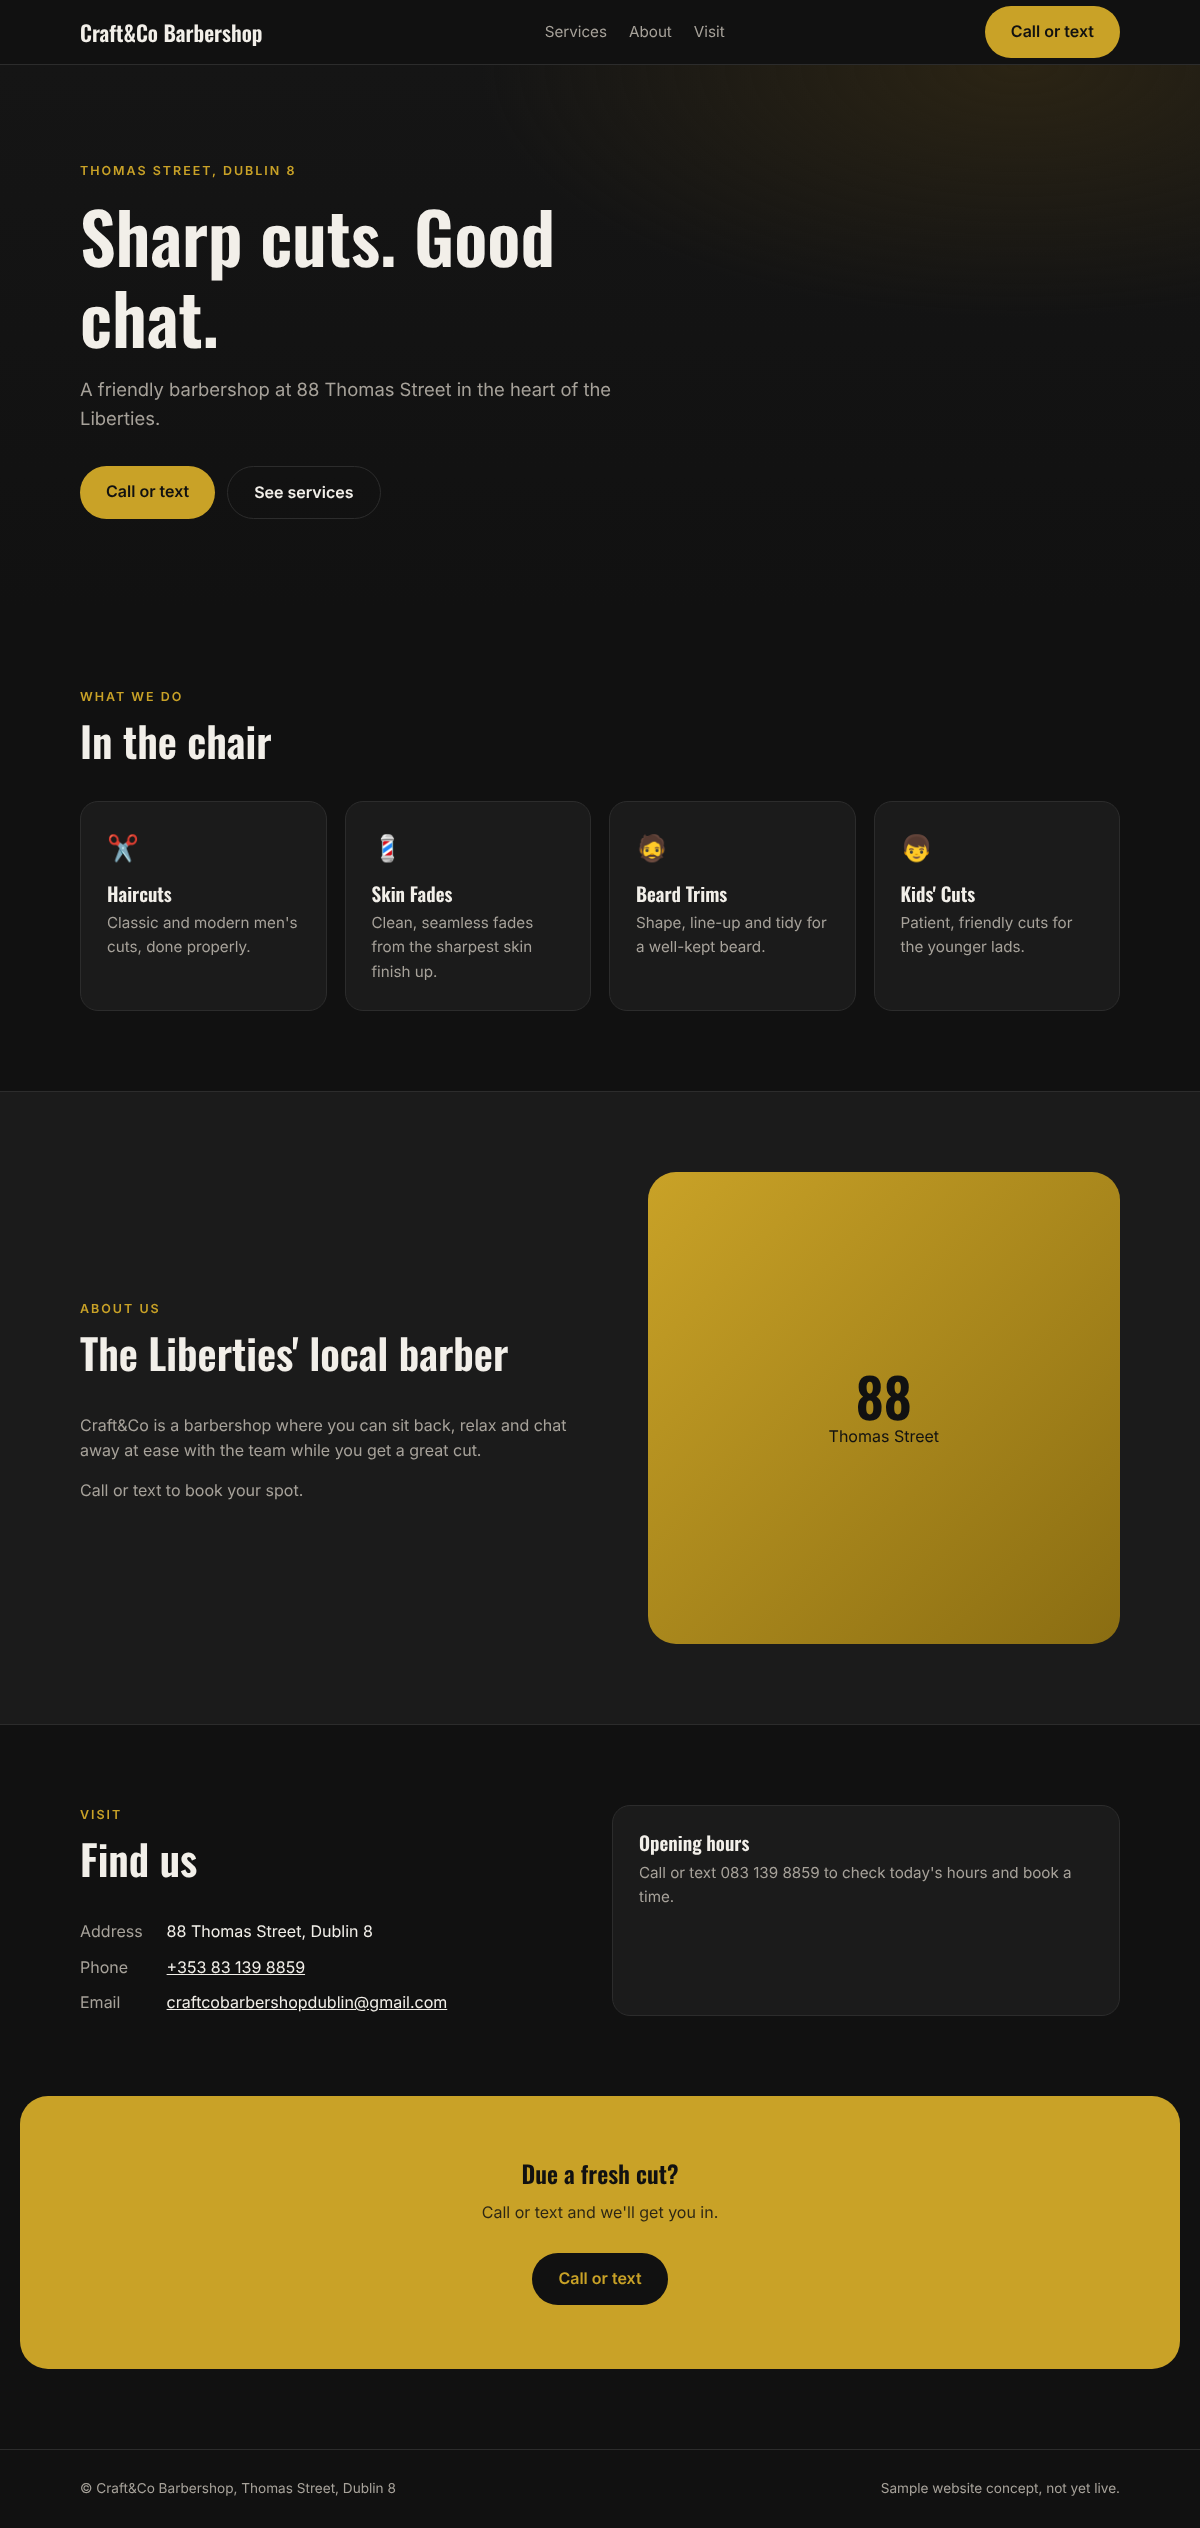
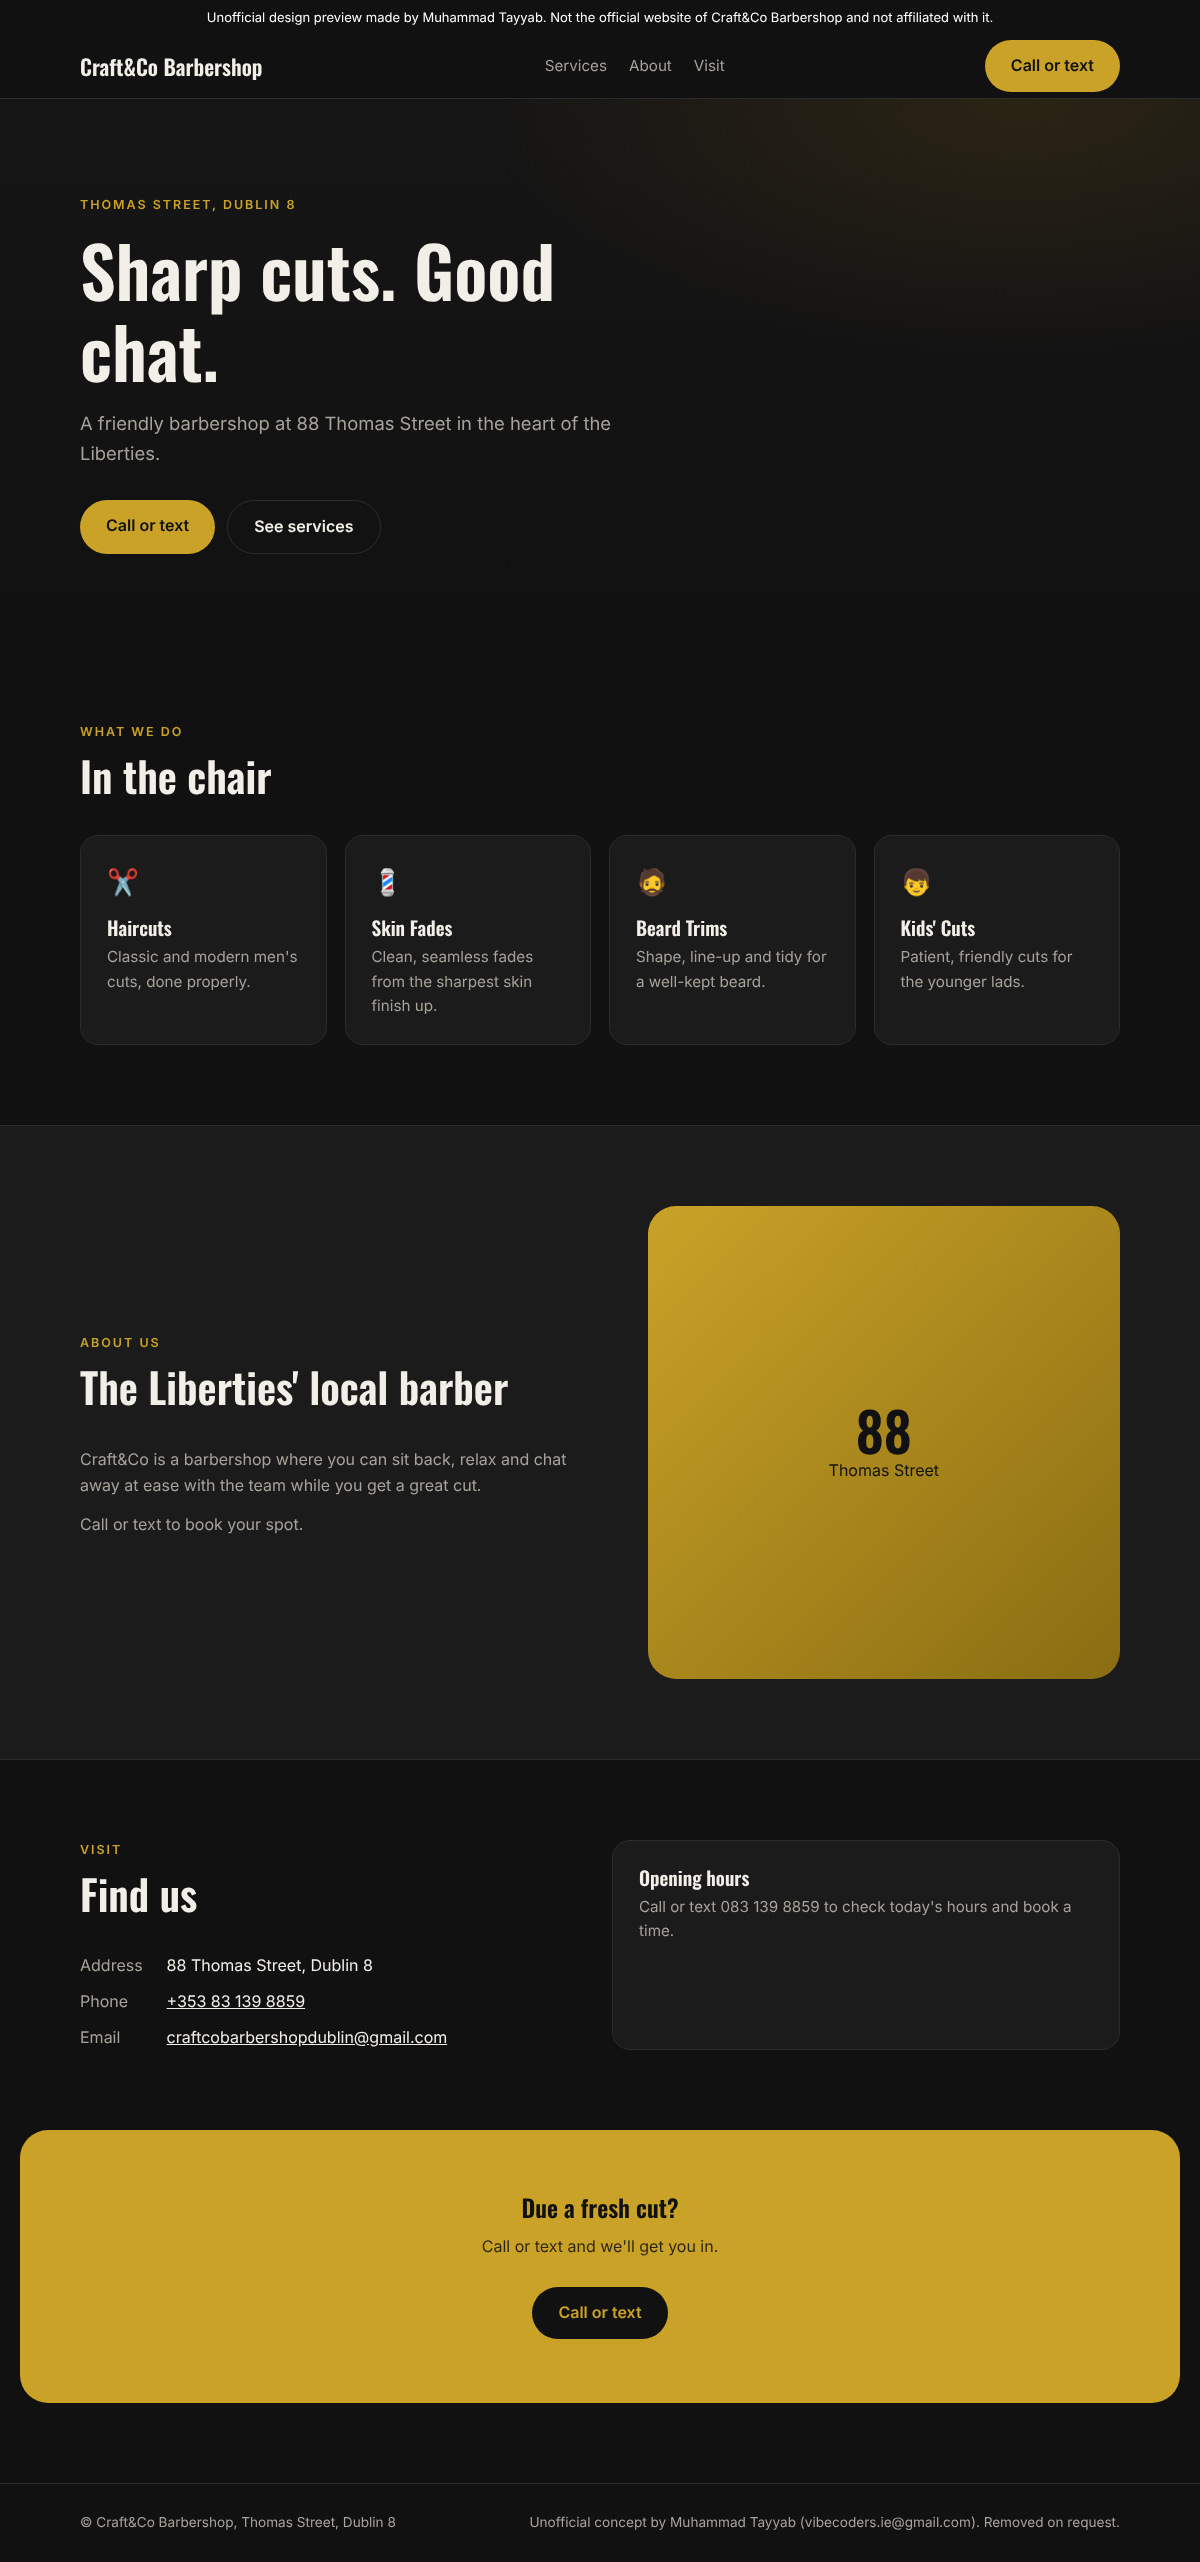
Mark sample sites as unofficial and add outreach compliance rules
Every preview now carries a not-affiliated banner and noindex, and the
playbook pauses cold email until it follows Irish ePrivacy rules.

Claude-Session: https://claude.ai/code/session_019FiM2hzafN36p3aDGyRWvc

diff --git a/sample-sites/nail-garden/index.html b/sample-sites/nail-garden/index.html
@@ -3,6 +3,7 @@
 <head>
 <meta charset="utf-8">
 <meta name="viewport" content="width=device-width, initial-scale=1">
+<meta name="robots" content="noindex, nofollow">
 <title>Nail Garden Beauty Salon | Phibsborough, Dublin 7</title>
 <meta name="description" content="Gel, polish, lash extensions, waxing and facials at Phibsborough Shopping Centre.">
 <link rel="preconnect" href="https://fonts.googleapis.com">
@@ -64,6 +65,7 @@ footer .wrap { display: flex; justify-content: space-between; gap: 16px; flex-wr
 </style>
 </head>
 <body>
+<div style="background:#111;color:#fff;font:13px/1.4 Inter,system-ui,sans-serif;text-align:center;padding:8px 16px">Unofficial design preview made by Muhammad Tayyab. Not the official website of Nail Garden Beauty Salon and not affiliated with it.</div>
 <header>
   <div class="wrap">
     <a class="brand" href="#">Nail Garden Beauty Salon</a>
@@ -130,7 +132,7 @@ footer .wrap { display: flex; justify-content: space-between; gap: 16px; flex-wr
 <footer>
   <div class="wrap">
     <span>&copy; Nail Garden Beauty Salon, Phibsborough, Dublin 7</span>
-    <span>Sample website concept, not yet live.</span>
+    <span>Unofficial concept by Muhammad Tayyab (vibecoders.ie@gmail.com). Removed on request.</span>
   </div>
 </footer>
 </body>

diff --git a/sample-sites/galaxy-nails/index.html b/sample-sites/galaxy-nails/index.html
@@ -3,6 +3,7 @@
 <head>
 <meta charset="utf-8">
 <meta name="viewport" content="width=device-width, initial-scale=1">
+<meta name="robots" content="noindex, nofollow">
 <title>Galaxy Nails &amp; Beauty | Rialto, Dublin 8</title>
 <meta name="description" content="Gel, acrylics, Russian manicures and spa pedicures on the South Circular Road, Rialto.">
 <link rel="preconnect" href="https://fonts.googleapis.com">
@@ -64,6 +65,7 @@ footer .wrap { display: flex; justify-content: space-between; gap: 16px; flex-wr
 </style>
 </head>
 <body>
+<div style="background:#111;color:#fff;font:13px/1.4 Inter,system-ui,sans-serif;text-align:center;padding:8px 16px">Unofficial design preview made by Muhammad Tayyab. Not the official website of Galaxy Nails &amp; Beauty and not affiliated with it.</div>
 <header>
   <div class="wrap">
     <a class="brand" href="#">Galaxy Nails &amp; Beauty</a>
@@ -130,7 +132,7 @@ footer .wrap { display: flex; justify-content: space-between; gap: 16px; flex-wr
 <footer>
   <div class="wrap">
     <span>&copy; Galaxy Nails &amp; Beauty, Rialto, Dublin 8</span>
-    <span>Sample website concept, not yet live.</span>
+    <span>Unofficial concept by Muhammad Tayyab (vibecoders.ie@gmail.com). Removed on request.</span>
   </div>
 </footer>
 </body>

diff --git a/sample-sites/craft-co-barbershop/index.html b/sample-sites/craft-co-barbershop/index.html
@@ -3,6 +3,7 @@
 <head>
 <meta charset="utf-8">
 <meta name="viewport" content="width=device-width, initial-scale=1">
+<meta name="robots" content="noindex, nofollow">
 <title>Craft&amp;Co Barbershop | Thomas Street, Dublin 8</title>
 <meta name="description" content="A friendly barbershop at 88 Thomas Street in the heart of the Liberties.">
 <link rel="preconnect" href="https://fonts.googleapis.com">
@@ -64,6 +65,7 @@ footer .wrap { display: flex; justify-content: space-between; gap: 16px; flex-wr
 </style>
 </head>
 <body>
+<div style="background:#111;color:#fff;font:13px/1.4 Inter,system-ui,sans-serif;text-align:center;padding:8px 16px">Unofficial design preview made by Muhammad Tayyab. Not the official website of Craft&amp;Co Barbershop and not affiliated with it.</div>
 <header>
   <div class="wrap">
     <a class="brand" href="#">Craft&amp;Co Barbershop</a>
@@ -130,7 +132,7 @@ footer .wrap { display: flex; justify-content: space-between; gap: 16px; flex-wr
 <footer>
   <div class="wrap">
     <span>&copy; Craft&amp;Co Barbershop, Thomas Street, Dublin 8</span>
-    <span>Sample website concept, not yet live.</span>
+    <span>Unofficial concept by Muhammad Tayyab (vibecoders.ie@gmail.com). Removed on request.</span>
   </div>
 </footer>
 </body>

diff --git a/sample-sites/navan-barber/index.html b/sample-sites/navan-barber/index.html
@@ -3,6 +3,7 @@
 <head>
 <meta charset="utf-8">
 <meta name="viewport" content="width=device-width, initial-scale=1">
+<meta name="robots" content="noindex, nofollow">
 <title>Navan Barbers | Phibsborough, Dublin 7</title>
 <meta name="description" content="A friendly barbershop at 346 North Circular Road, Phibsborough, taking care of all your grooming needs.">
 <link rel="preconnect" href="https://fonts.googleapis.com">
@@ -64,6 +65,7 @@ footer .wrap { display: flex; justify-content: space-between; gap: 16px; flex-wr
 </style>
 </head>
 <body>
+<div style="background:#111;color:#fff;font:13px/1.4 Inter,system-ui,sans-serif;text-align:center;padding:8px 16px">Unofficial design preview made by Muhammad Tayyab. Not the official website of Navan Barbers and not affiliated with it.</div>
 <header>
   <div class="wrap">
     <a class="brand" href="#">Navan Barbers</a>
@@ -130,7 +132,7 @@ footer .wrap { display: flex; justify-content: space-between; gap: 16px; flex-wr
 <footer>
   <div class="wrap">
     <span>&copy; Navan Barbers, Phibsborough, Dublin 7</span>
-    <span>Sample website concept, not yet live.</span>
+    <span>Unofficial concept by Muhammad Tayyab (vibecoders.ie@gmail.com). Removed on request.</span>
   </div>
 </footer>
 </body>

diff --git a/sample-sites/d15-barbers-drumcondra/index.html b/sample-sites/d15-barbers-drumcondra/index.html
@@ -3,6 +3,7 @@
 <head>
 <meta charset="utf-8">
 <meta name="viewport" content="width=device-width, initial-scale=1">
+<meta name="robots" content="noindex, nofollow">
 <title>D15 Barbers Drumcondra | Drumcondra, Dublin 9</title>
 <meta name="description" content="Men&#x27;s haircuts, fades and beard work at 30 Lower Drumcondra Road.">
 <link rel="preconnect" href="https://fonts.googleapis.com">
@@ -64,6 +65,7 @@ footer .wrap { display: flex; justify-content: space-between; gap: 16px; flex-wr
 </style>
 </head>
 <body>
+<div style="background:#111;color:#fff;font:13px/1.4 Inter,system-ui,sans-serif;text-align:center;padding:8px 16px">Unofficial design preview made by Muhammad Tayyab. Not the official website of D15 Barbers Drumcondra and not affiliated with it.</div>
 <header>
   <div class="wrap">
     <a class="brand" href="#">D15 Barbers Drumcondra</a>
@@ -130,7 +132,7 @@ footer .wrap { display: flex; justify-content: space-between; gap: 16px; flex-wr
 <footer>
   <div class="wrap">
     <span>&copy; D15 Barbers Drumcondra, Drumcondra, Dublin 9</span>
-    <span>Sample website concept, not yet live.</span>
+    <span>Unofficial concept by Muhammad Tayyab (vibecoders.ie@gmail.com). Removed on request.</span>
   </div>
 </footer>
 </body>

diff --git a/sample-sites/new-look-barber/index.html b/sample-sites/new-look-barber/index.html
@@ -3,6 +3,7 @@
 <head>
 <meta charset="utf-8">
 <meta name="viewport" content="width=device-width, initial-scale=1">
+<meta name="robots" content="noindex, nofollow">
 <title>New Look Barber Shop | Cork Street, Dublin 8</title>
 <meta name="description" content="Men&#x27;s haircuts, fades and beard trims at 79 Cork Street, Dublin 8.">
 <link rel="preconnect" href="https://fonts.googleapis.com">
@@ -64,6 +65,7 @@ footer .wrap { display: flex; justify-content: space-between; gap: 16px; flex-wr
 </style>
 </head>
 <body>
+<div style="background:#111;color:#fff;font:13px/1.4 Inter,system-ui,sans-serif;text-align:center;padding:8px 16px">Unofficial design preview made by Muhammad Tayyab. Not the official website of New Look Barber Shop and not affiliated with it.</div>
 <header>
   <div class="wrap">
     <a class="brand" href="#">New Look Barber Shop</a>
@@ -130,7 +132,7 @@ footer .wrap { display: flex; justify-content: space-between; gap: 16px; flex-wr
 <footer>
   <div class="wrap">
     <span>&copy; New Look Barber Shop, Cork Street, Dublin 8</span>
-    <span>Sample website concept, not yet live.</span>
+    <span>Unofficial concept by Muhammad Tayyab (vibecoders.ie@gmail.com). Removed on request.</span>
   </div>
 </footer>
 </body>

diff --git a/sample-sites/sapa-spa/index.html b/sample-sites/sapa-spa/index.html
@@ -3,6 +3,7 @@
 <head>
 <meta charset="utf-8">
 <meta name="viewport" content="width=device-width, initial-scale=1">
+<meta name="robots" content="noindex, nofollow">
 <title>Sapa Spa &amp; Beauty | Rialto, Dublin 8</title>
 <meta name="description" content="Nails, head spa, brows and lashes at 453 South Circular Road.">
 <link rel="preconnect" href="https://fonts.googleapis.com">
@@ -64,6 +65,7 @@ footer .wrap { display: flex; justify-content: space-between; gap: 16px; flex-wr
 </style>
 </head>
 <body>
+<div style="background:#111;color:#fff;font:13px/1.4 Inter,system-ui,sans-serif;text-align:center;padding:8px 16px">Unofficial design preview made by Muhammad Tayyab. Not the official website of Sapa Spa &amp; Beauty and not affiliated with it.</div>
 <header>
   <div class="wrap">
     <a class="brand" href="#">Sapa Spa &amp; Beauty</a>
@@ -130,7 +132,7 @@ footer .wrap { display: flex; justify-content: space-between; gap: 16px; flex-wr
 <footer>
   <div class="wrap">
     <span>&copy; Sapa Spa &amp; Beauty, Rialto, Dublin 8</span>
-    <span>Sample website concept, not yet live.</span>
+    <span>Unofficial concept by Muhammad Tayyab (vibecoders.ie@gmail.com). Removed on request.</span>
   </div>
 </footer>
 </body>

diff --git a/sample-sites/cabra-barbers/index.html b/sample-sites/cabra-barbers/index.html
@@ -3,6 +3,7 @@
 <head>
 <meta charset="utf-8">
 <meta name="viewport" content="width=device-width, initial-scale=1">
+<meta name="robots" content="noindex, nofollow">
 <title>Cabra Barbers | Cabra, Dublin 7</title>
 <meta name="description" content="Haircuts, hot towel shaves and beard trims on Dowth Avenue, Cabra.">
 <link rel="preconnect" href="https://fonts.googleapis.com">
@@ -64,6 +65,7 @@ footer .wrap { display: flex; justify-content: space-between; gap: 16px; flex-wr
 </style>
 </head>
 <body>
+<div style="background:#111;color:#fff;font:13px/1.4 Inter,system-ui,sans-serif;text-align:center;padding:8px 16px">Unofficial design preview made by Muhammad Tayyab. Not the official website of Cabra Barbers and not affiliated with it.</div>
 <header>
   <div class="wrap">
     <a class="brand" href="#">Cabra Barbers</a>
@@ -130,7 +132,7 @@ footer .wrap { display: flex; justify-content: space-between; gap: 16px; flex-wr
 <footer>
   <div class="wrap">
     <span>&copy; Cabra Barbers, Cabra, Dublin 7</span>
-    <span>Sample website concept, not yet live.</span>
+    <span>Unofficial concept by Muhammad Tayyab (vibecoders.ie@gmail.com). Removed on request.</span>
   </div>
 </footer>
 </body>

diff --git a/sample-sites/monika-nails/index.html b/sample-sites/monika-nails/index.html
@@ -3,6 +3,7 @@
 <head>
 <meta charset="utf-8">
 <meta name="viewport" content="width=device-width, initial-scale=1">
+<meta name="robots" content="noindex, nofollow">
 <title>Monika Nails | Drumcondra, Dublin 9</title>
 <meta name="description" content="Acrylics, gel and manicures at 88 Upper Drumcondra Road.">
 <link rel="preconnect" href="https://fonts.googleapis.com">
@@ -64,6 +65,7 @@ footer .wrap { display: flex; justify-content: space-between; gap: 16px; flex-wr
 </style>
 </head>
 <body>
+<div style="background:#111;color:#fff;font:13px/1.4 Inter,system-ui,sans-serif;text-align:center;padding:8px 16px">Unofficial design preview made by Muhammad Tayyab. Not the official website of Monika Nails and not affiliated with it.</div>
 <header>
   <div class="wrap">
     <a class="brand" href="#">Monika Nails</a>
@@ -130,7 +132,7 @@ footer .wrap { display: flex; justify-content: space-between; gap: 16px; flex-wr
 <footer>
   <div class="wrap">
     <span>&copy; Monika Nails, Drumcondra, Dublin 9</span>
-    <span>Sample website concept, not yet live.</span>
+    <span>Unofficial concept by Muhammad Tayyab (vibecoders.ie@gmail.com). Removed on request.</span>
   </div>
 </footer>
 </body>

diff --git a/sample-sites/build.py b/sample-sites/build.py
@@ -14,6 +14,7 @@ TEMPLATE = """<!doctype html>
 <head>
 <meta charset="utf-8">
 <meta name="viewport" content="width=device-width, initial-scale=1">
+<meta name="robots" content="noindex, nofollow">
 <title>{name} | {area}</title>
 <meta name="description" content="{tagline}">
 <link rel="preconnect" href="https://fonts.googleapis.com">
@@ -75,6 +76,7 @@ footer .wrap {{ display: flex; justify-content: space-between; gap: 16px; flex-w
 </style>
 </head>
 <body>
+<div style="background:#111;color:#fff;font:13px/1.4 Inter,system-ui,sans-serif;text-align:center;padding:8px 16px">Unofficial design preview made by Muhammad Tayyab. Not the official website of {name} and not affiliated with it.</div>
 <header>
   <div class="wrap">
     <a class="brand" href="#">{name}</a>
@@ -141,7 +143,7 @@ footer .wrap {{ display: flex; justify-content: space-between; gap: 16px; flex-w
 <footer>
   <div class="wrap">
     <span>&copy; {name}, {area}</span>
-    <span>Sample website concept, not yet live.</span>
+    <span>Unofficial concept by Muhammad Tayyab (vibecoders.ie@gmail.com). Removed on request.</span>
   </div>
 </footer>
 </body>

diff --git a/sample-sites/PLAYBOOK.md b/sample-sites/PLAYBOOK.md
@@ -9,6 +9,22 @@ The source of truth is Gmail labels in vibecoders.ie@gmail.com: `Outreach/Contac
 
 After sending, check `from:mailer-daemon newer_than:1d` for bounces and label them `Outreach/Bounced`.
 
+## 0. Legal rules (Ireland). These override everything below.
+- **Cold outreach is PAUSED until Muhammad says to resume.** Until then, only handle replies.
+- Under S.I. 336/2011 (Reg. 13), cold marketing email to an individual (a sole trader, or a personal
+  Gmail/Hotmail/Yahoo address belonging to a person) needs their prior consent. Cold email is only allowed to a
+  company (a "Ltd"/DAC/CLG registered with the CRO) at a business address. So, when outreach resumes:
+  - Email a business only after confirming it is a registered company (search "<name> CRO" / solocheck.ie / vision-net.ie).
+  - Prefer role addresses (info@, bookings@, salon@...). Skip any address that looks like a person's name.
+  - Sole traders: don't email them. List them in the run summary so Muhammad can call or visit in person instead.
+- Every email must say who is sending, give a working reply address, and include a free one-click-style opt-out
+  ("reply 'no thanks'"). Honour an opt-out the same day: label `Outreach/Do not contact` and never email again.
+- GDPR: only store the business name, area and listed contact email. If anyone asks for their data to be deleted,
+  remove their sample site and notes and confirm by reply. Delete notes for non-responders after 60 days.
+- Sample sites must keep the "Unofficial design preview… not affiliated" banner and `noindex`. If a business asks,
+  delete its sample site the same day.
+- Never copy a business's logo or photos into a sample site without permission. Never claim to be affiliated.
+
 ## 1. Handle replies first
 - Search Gmail for replies to our outreach threads (subject starts "A free website preview for"),
   and for any new inbound email from a business in `contacted`.
